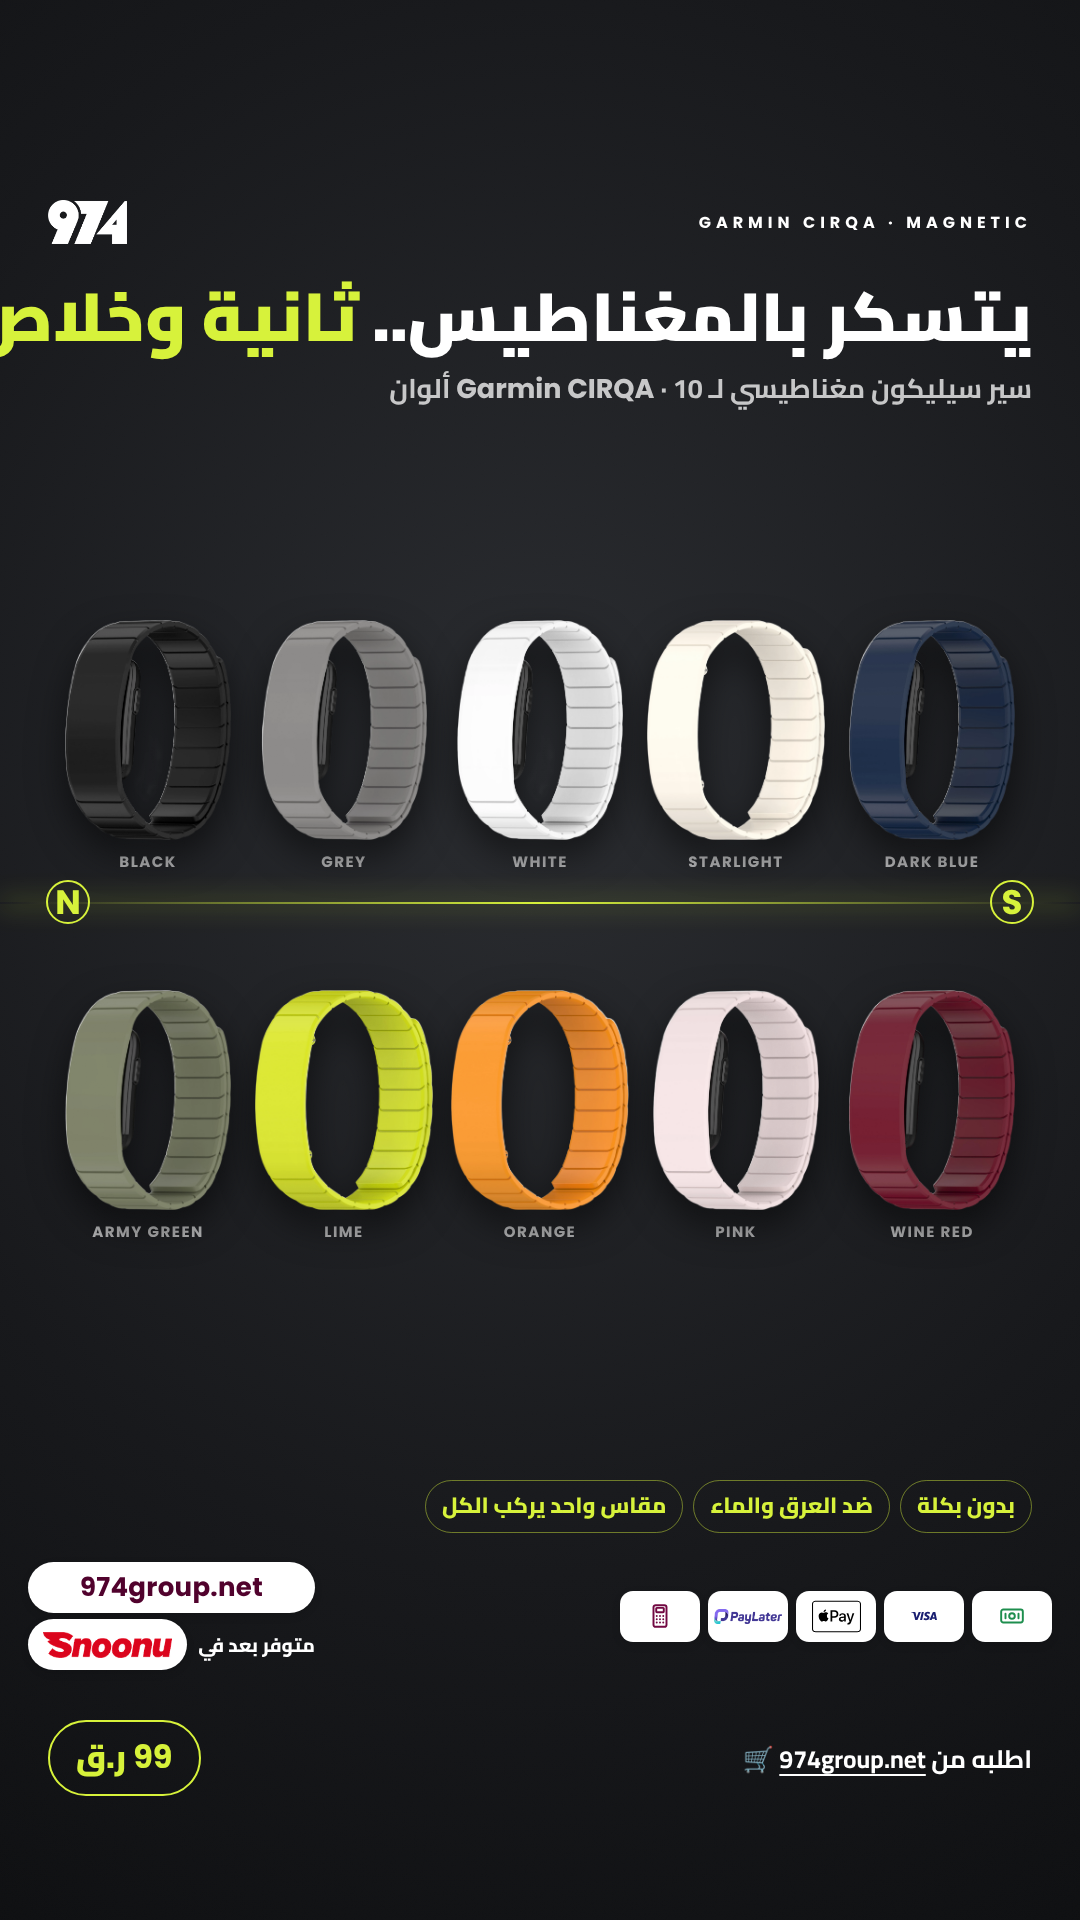
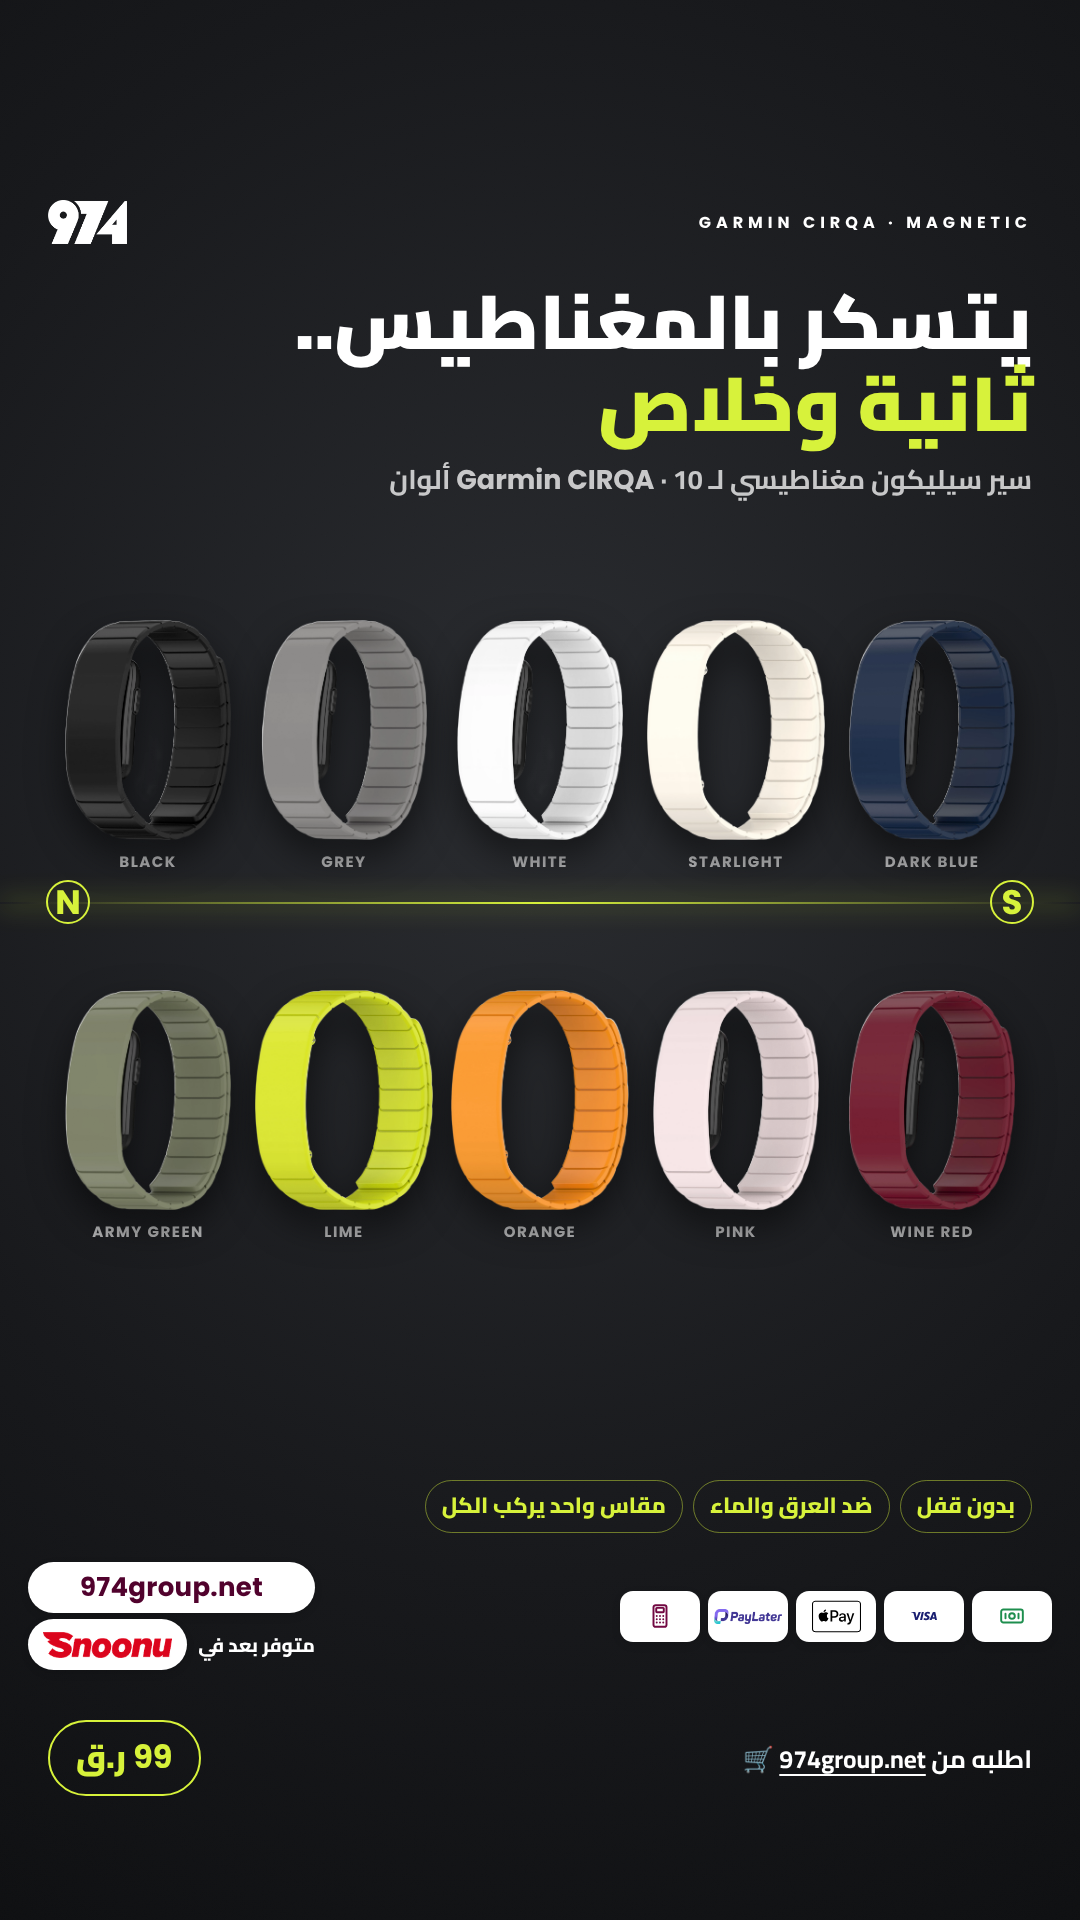
Magnet: two-line title, بدون قفل
Claude-Session: https://claude.ai/code/session_01K6HDWNrArsGSJekW1VcEzV

diff --git a/posts/2026-11/push-6/out/974-magnet-post.html b/posts/2026-11/push-6/out/974-magnet-post.html
@@ -40,12 +40,12 @@ body{width:1080px;height:1350px;background:radial-gradient(110% 70% at 50% 40%,#
 <div class="abs" style="left:0;right:0;top:604px;height:2px;background:linear-gradient(90deg,transparent,#D7F23A,transparent);box-shadow:0 0 24px #D7F23A"></div>
 <div class="abs en mg" style="left:46px;top:582px">N</div><div class="abs en mg" style="right:46px;top:582px">S</div>
 <div class="abs ar" style="right:48px;left:48px;top:112px">
- <div style="font-weight:900;font-size:62px;line-height:1.08;white-space:nowrap">يتسكر بالمغناطيس.. <span style="color:#D7F23A">ثانية وخلاص</span></div>
+ <div style="font-weight:900;font-size:66px;line-height:1.08">يتسكر بالمغناطيس..<br><span style="color:#D7F23A">ثانية وخلاص</span></div>
  <div style="font-weight:700;font-size:24px;margin-top:10px;opacity:.75">سير سيليكون مغناطيسي لـ <span class="en">Garmin CIRQA</span> · 10 ألوان</div>
 </div>
 <div class="t" style="left:50px;top:380px;width:196px"><img src="file:///home/claude/974-social/products/garmin-cirqa-magnetic/src/black-crop.png" style="height:178px"><i>Black</i></div><div class="t" style="left:246px;top:380px;width:196px"><img src="file:///home/claude/974-social/products/garmin-cirqa-magnetic/src/grey-crop.png" style="height:178px"><i>Grey</i></div><div class="t" style="left:442px;top:380px;width:196px"><img src="file:///home/claude/974-social/products/garmin-cirqa-magnetic/src/white-crop.png" style="height:178px"><i>White</i></div><div class="t" style="left:638px;top:380px;width:196px"><img src="file:///home/claude/974-social/products/garmin-cirqa-magnetic/src/starlight-crop.png" style="height:178px"><i>Starlight</i></div><div class="t" style="left:834px;top:380px;width:196px"><img src="file:///home/claude/974-social/products/garmin-cirqa-magnetic/src/dark-blue-crop.png" style="height:178px"><i>Dark Blue</i></div><div class="t" style="left:50px;top:670px;width:196px"><img src="file:///home/claude/974-social/products/garmin-cirqa-magnetic/src/army-green-crop.png" style="height:178px"><i>Army Green</i></div><div class="t" style="left:246px;top:670px;width:196px"><img src="file:///home/claude/974-social/products/garmin-cirqa-magnetic/src/lime-crop.png" style="height:178px"><i>Lime</i></div><div class="t" style="left:442px;top:670px;width:196px"><img src="file:///home/claude/974-social/products/garmin-cirqa-magnetic/src/orange-crop.png" style="height:178px"><i>Orange</i></div><div class="t" style="left:638px;top:670px;width:196px"><img src="file:///home/claude/974-social/products/garmin-cirqa-magnetic/src/pink-crop.png" style="height:178px"><i>Pink</i></div><div class="t" style="left:834px;top:670px;width:196px"><img src="file:///home/claude/974-social/products/garmin-cirqa-magnetic/src/wine-red-crop.png" style="height:178px"><i>Wine Red</i></div>
 <div class="abs ar" style="right:48px;left:48px;top:1010px;display:flex;gap:10px;direction:rtl">
- <span class="fx">بدون بكلة</span><span class="fx">ضد العرق والماء</span><span class="fx">مقاس واحد يركب الكل</span>
+ <span class="fx">بدون قفل</span><span class="fx">ضد العرق والماء</span><span class="fx">مقاس واحد يركب الكل</span>
 </div><div class="grain"></div>
 <div class="top"><img src="file:///home/claude/974-social/posts/2026-11/pilates-socks/src/logo-white.png"><span>GARMIN CIRQA · MAGNETIC</span></div>
 <div class="pf"><div class="payfoot"><div class="pills">

diff --git a/posts/2026-11/push-6/out/974-magnet-story.html b/posts/2026-11/push-6/out/974-magnet-story.html
@@ -40,12 +40,12 @@ body{width:1080px;height:1920px;background:radial-gradient(110% 70% at 50% 40%,#
 <div class="abs" style="left:0;right:0;top:902px;height:2px;background:linear-gradient(90deg,transparent,#D7F23A,transparent);box-shadow:0 0 24px #D7F23A"></div>
 <div class="abs en mg" style="left:46px;top:880px">N</div><div class="abs en mg" style="right:46px;top:880px">S</div>
 <div class="abs ar" style="right:48px;left:48px;top:280px">
- <div style="font-weight:900;font-size:68px;line-height:1.08;white-space:nowrap">يتسكر بالمغناطيس.. <span style="color:#D7F23A">ثانية وخلاص</span></div>
+ <div style="font-weight:900;font-size:76px;line-height:1.08">يتسكر بالمغناطيس..<br><span style="color:#D7F23A">ثانية وخلاص</span></div>
  <div style="font-weight:700;font-size:27px;margin-top:10px;opacity:.75">سير سيليكون مغناطيسي لـ <span class="en">Garmin CIRQA</span> · 10 ألوان</div>
 </div>
 <div class="t" style="left:50px;top:620px;width:196px"><img src="file:///home/claude/974-social/products/garmin-cirqa-magnetic/src/black-crop.png" style="height:220px"><i>Black</i></div><div class="t" style="left:246px;top:620px;width:196px"><img src="file:///home/claude/974-social/products/garmin-cirqa-magnetic/src/grey-crop.png" style="height:220px"><i>Grey</i></div><div class="t" style="left:442px;top:620px;width:196px"><img src="file:///home/claude/974-social/products/garmin-cirqa-magnetic/src/white-crop.png" style="height:220px"><i>White</i></div><div class="t" style="left:638px;top:620px;width:196px"><img src="file:///home/claude/974-social/products/garmin-cirqa-magnetic/src/starlight-crop.png" style="height:220px"><i>Starlight</i></div><div class="t" style="left:834px;top:620px;width:196px"><img src="file:///home/claude/974-social/products/garmin-cirqa-magnetic/src/dark-blue-crop.png" style="height:220px"><i>Dark Blue</i></div><div class="t" style="left:50px;top:990px;width:196px"><img src="file:///home/claude/974-social/products/garmin-cirqa-magnetic/src/army-green-crop.png" style="height:220px"><i>Army Green</i></div><div class="t" style="left:246px;top:990px;width:196px"><img src="file:///home/claude/974-social/products/garmin-cirqa-magnetic/src/lime-crop.png" style="height:220px"><i>Lime</i></div><div class="t" style="left:442px;top:990px;width:196px"><img src="file:///home/claude/974-social/products/garmin-cirqa-magnetic/src/orange-crop.png" style="height:220px"><i>Orange</i></div><div class="t" style="left:638px;top:990px;width:196px"><img src="file:///home/claude/974-social/products/garmin-cirqa-magnetic/src/pink-crop.png" style="height:220px"><i>Pink</i></div><div class="t" style="left:834px;top:990px;width:196px"><img src="file:///home/claude/974-social/products/garmin-cirqa-magnetic/src/wine-red-crop.png" style="height:220px"><i>Wine Red</i></div>
 <div class="abs ar" style="right:48px;left:48px;top:1480px;display:flex;gap:10px;direction:rtl">
- <span class="fx">بدون بكلة</span><span class="fx">ضد العرق والماء</span><span class="fx">مقاس واحد يركب الكل</span>
+ <span class="fx">بدون قفل</span><span class="fx">ضد العرق والماء</span><span class="fx">مقاس واحد يركب الكل</span>
 </div><div class="grain"></div>
 <div class="top"><img src="file:///home/claude/974-social/posts/2026-11/pilates-socks/src/logo-white.png"><span>GARMIN CIRQA · MAGNETIC</span></div>
 <div class="pf"><div class="payfoot"><div class="pills">

diff --git a/posts/2026-11/push-6/gen.py b/posts/2026-11/push-6/gen.py
@@ -108,12 +108,12 @@ def magnet(story=False):
 <div class="abs" style="left:0;right:0;top:{axis}px;height:2px;background:linear-gradient(90deg,transparent,{LIME},transparent);box-shadow:0 0 24px {LIME}"></div>
 <div class="abs en mg" style="left:46px;top:{axis-22}px">N</div><div class="abs en mg" style="right:46px;top:{axis-22}px">S</div>
 <div class="abs ar" style="right:48px;left:48px;top:{o+(130 if story else 112)}px">
- <div style="font-weight:900;font-size:{68 if story else 62}px;line-height:1.08;white-space:nowrap">يتسكر بالمغناطيس.. <span style="color:{LIME}">ثانية وخلاص</span></div>
+ <div style="font-weight:900;font-size:{76 if story else 66}px;line-height:1.08">يتسكر بالمغناطيس..<br><span style="color:{LIME}">ثانية وخلاص</span></div>
  <div style="font-weight:700;font-size:{27 if story else 24}px;margin-top:10px;opacity:.75">سير سيليكون مغناطيسي لـ <span class="en">Garmin CIRQA</span> · 10 ألوان</div>
 </div>
 {row(MG[:5], y1)}{row(MG[5:], y2)}
 <div class="abs ar" style="right:48px;left:48px;top:{o+(1330 if story else 1010)}px;display:flex;gap:10px;direction:rtl">
- <span class="fx">بدون بكلة</span><span class="fx">ضد العرق والماء</span><span class="fx">مقاس واحد يركب الكل</span>
+ <span class="fx">بدون قفل</span><span class="fx">ضد العرق والماء</span><span class="fx">مقاس واحد يركب الكل</span>
 </div>'''
     extra = f'''.t{{position:absolute;display:flex;flex-direction:column;align-items:center}}
 .t img{{filter:drop-shadow(0 16px 18px rgba(0,0,0,.55))}}
